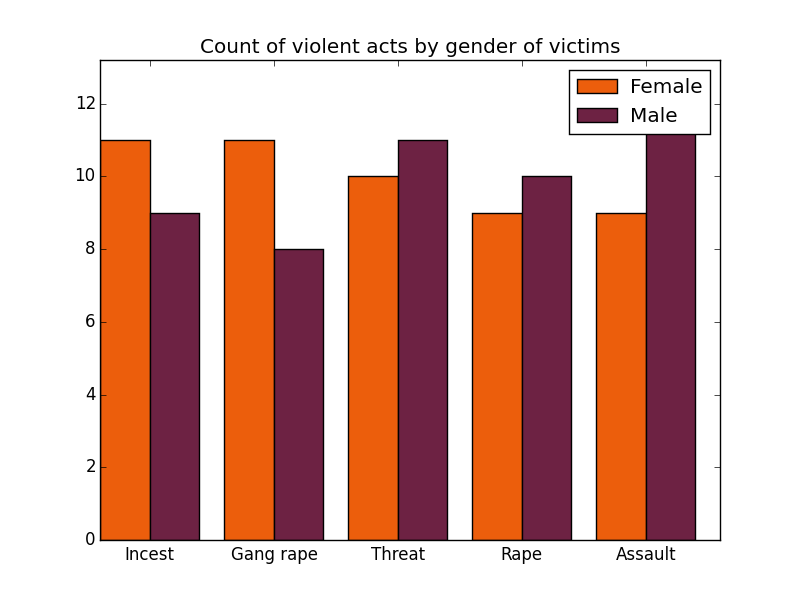
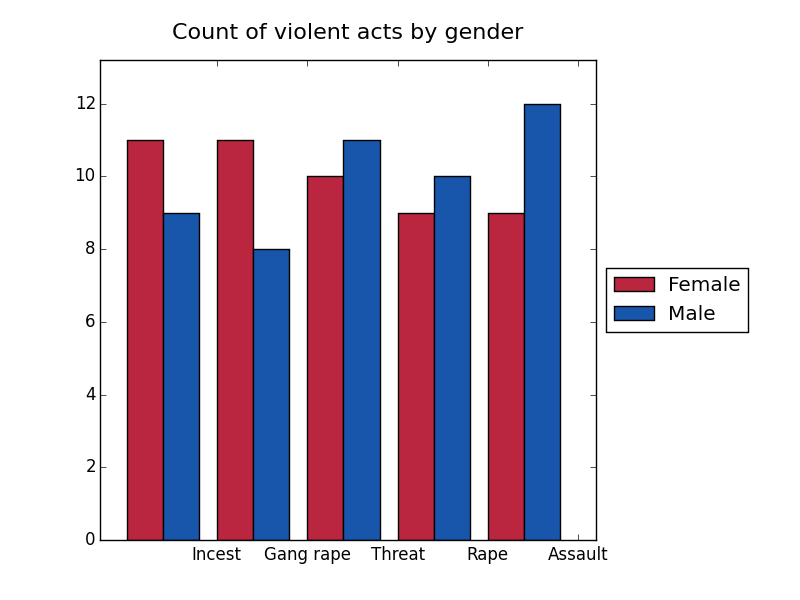
Added graph for cities, updated color scheme, and fixed fake data

diff --git a/graphics_maker.py b/graphics_maker.py
@@ -8,23 +8,12 @@ DATAFILE = 'map_records.csv'
 delimiter = ','
 #COLORSETMORE = ["#fcd2a4","#fbaf5d","#f7941d","#f26c4f","#ed1c24","#9e0b0f"]
 
-COLORSETMORE = ["#EC5E0C","#6D2243","#BA2640","#F78F1E","#85871A"]
+COLORSET2 = ["#BA2640","#1756ab"]
+COLORSETMORE = ["#EC5E0C","#6D2243","#BA2640","#F78F1E","#85871A","#280904","#1756ab"]
 COLORSETMOREORDER = ["#85871A","#F78F1E","#EC5E0C","#BA2640","#6D2243"]
 
-
-
-COLORSET2 = ["#ff7f00","#0080ff"]
-#HEADER = ['DATE','NARRATIVE','GENDER','HEALTH','AGE','ACT','PUBLISHED']
 HEADER = ["Title","Narrative","Date","Map filter #1","Map filter #2","Map filter #3","Map filter #4","Published"]
-mapfilternames = {"Map filter #1":"gender","Map filter #2":"health","Map filter #3":"age_range","Map filter #4":"violent_act"}
-
-# def check(row):
-# 	for item in row:
-# 		if item[0]!='"' and item[-1]!='"':
-# 			print row
-# 			print "There is a comma in one of the narrative that is causing problems in parsing the file. Please remove it and try again"
-# 			sys.exit()
-# 	return None
+mapfilternames = {'Title':'organization_code',"Map filter #1":"gender","Map filter #2":"health","Map filter #3":"age_range","Map filter #4":"violent_act"}
 
 def import_data(datafile):
 	with open(datafile, 'r') as myfile:
@@ -37,7 +26,8 @@ def import_data(datafile):
 				header = [item.replace("Filter", "filter") for item in row]
 				first = False
 			else:
-				data.append(row)
+
+				data.append(clean_row(row))
 
 	if header != HEADER:
 		print "Header needs to be checked"
@@ -45,6 +35,13 @@ def import_data(datafile):
 
 	print "\nReading .csv file:", datafile, "\n"
 	return data, header
+
+def clean_row(row):
+	newrow = []
+	title = row[0].split('-')[1:]
+	newrow = row[1:]
+	newrow.insert(0,'-'.join(title))
+	return newrow
 
 def is_int(s):
     try:
@@ -70,40 +67,39 @@ def sortlabels(labels):
 def plot(labels,sublabels,data,x,y):
 	fig, ax = plt.subplots(1)
 	sublabels = sortlabels(sublabels)
+	width = 0.8/float(len(sublabels))
 	if len(sublabels)<=2:
-		colors = {sl: COLORSETMORE[i] for i, sl in enumerate(sublabels)}
-		width = 0.4
-	else:
+		colors = {sl: COLORSET2[i] for i, sl in enumerate(sublabels)}
+	elif len(sublabels) <= len(COLORSETMOREORDER):
 		colors = {sl: COLORSETMOREORDER[i] for i, sl in enumerate(sublabels)}
-		width = 0.15
+	else:
+		infinitepalette = COLORSETMORE
+		while len(infinitepalette) < len(sublabels):
+			infinitepalette.extend(COLORSETMORE)
+		colors = {sl: infinitepalette[i] for i, sl in enumerate(sublabels)}
 	max_y = 0
 	for i,sl in enumerate(sublabels):
 		#ppl.bar(ax, [w + width*i for w in range(len(labels))], [data[category][sl] for category in labels], width, grid='y', color = colors[sublabels[i]])
-		ax.bar([w + width*i for w in range(len(labels))], [data[category][sl] for category in labels], width, color = colors[sublabels[i]])
+		ax.bar([w + width*i for w in range(len(labels))], [data[category][sl] for category in labels], width, color = colors[sublabels[i]], align='center')
 		max_y = max(max_y,max([data[category][sl] for category in labels]))
-	ax.set_xticks([w + width for w in range(len(labels))])
+	ax.set_xticks([w + width*2 for w in range(len(labels))])
 	ax.set_xticklabels(labels)
-	ax.set_title("Count of {1}s by {0} of victims".format(x.replace('_',' '),y.replace('_',' ')))
-	ax.legend(sublabels)
+	ax.set_title("Count of {1}s by {0}".format(x.replace('_',' '),y.replace('_',' ')),fontsize=16,y=1.03)
 	ax.set_ylim([0,max_y*1.1])
+	max_x = ax.get_xlim()[1]
+	ax.set_xlim([-0.5,max_x])
+	# Shrink current axis by 20%
+	box = ax.get_position()
+	ax.set_position([box.x0, box.y0, box.width * 0.8, box.height])
+	# Put a legend to the right of the current axis
+	ax.legend(sublabels,loc='center left', bbox_to_anchor=(1, 0.5))
 	filename = "bar_{0}_by_{1}.png".format(x,y)
 	fig.savefig(filename)
 	print "\t", filename
 	return None
 
-# def bar_gender_by_act(data, header):
-# 	gender_column = header.index('GENDER')+1
-# 	act_column = header.index('ACT')+1
-# 	acts = zip(*data)[act_column]
-# 	genders = zip(*data)[gender_column]
-# 	organized_data = {k:{l:0 for l in set(genders)}for k in set(acts)}
-# 	for act,gender in zip(acts,genders):
-# 		organized_data[act][gender]+=1
-# 	plot(list(set(acts)),list(set(genders)),organized_data,"bar_gender_by_act")
-# 	return None
-
 def make_bar_charts(data, header):
-	X = ['Map filter #1','Map filter #2','Map filter #3']
+	X = ['Title','Map filter #1','Map filter #2','Map filter #3']
 	Y = ['Map filter #4']
 	print "Making graphs:"
 	for x in X:
